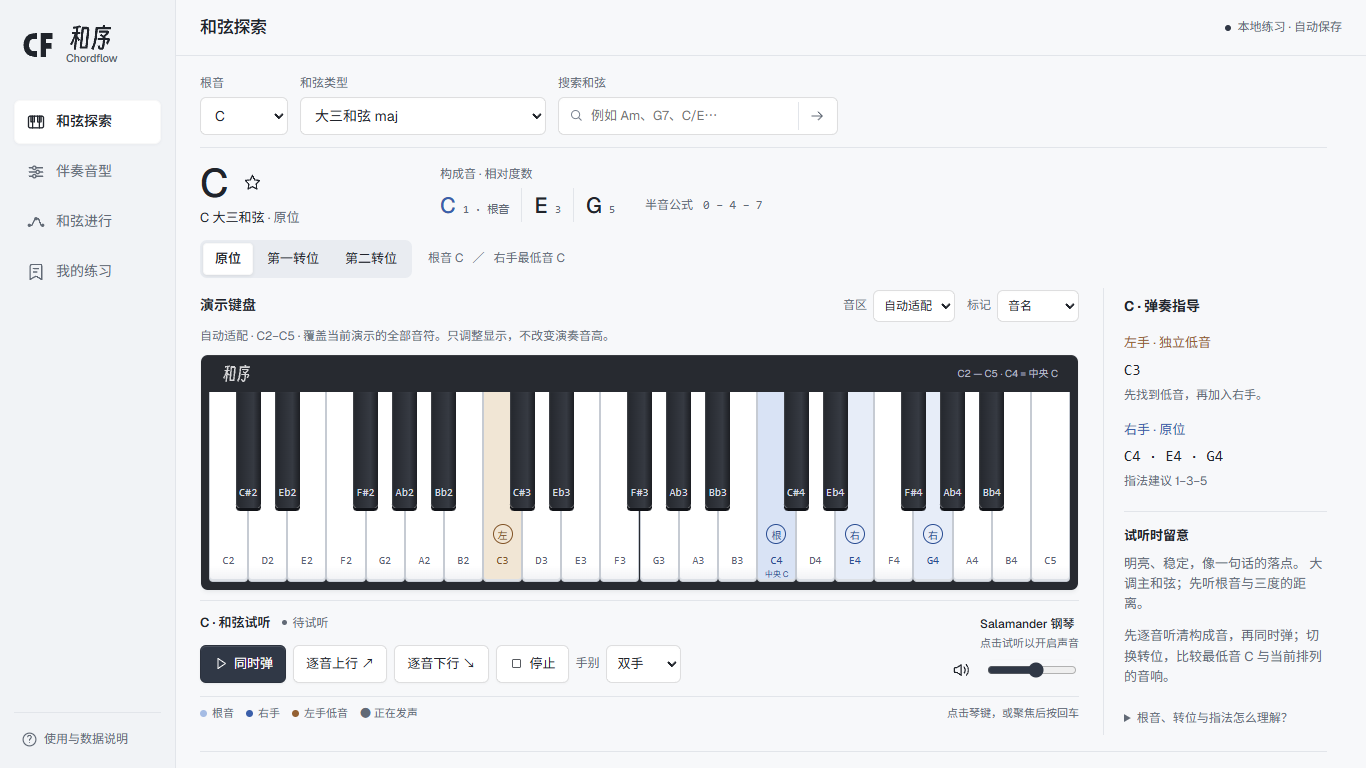
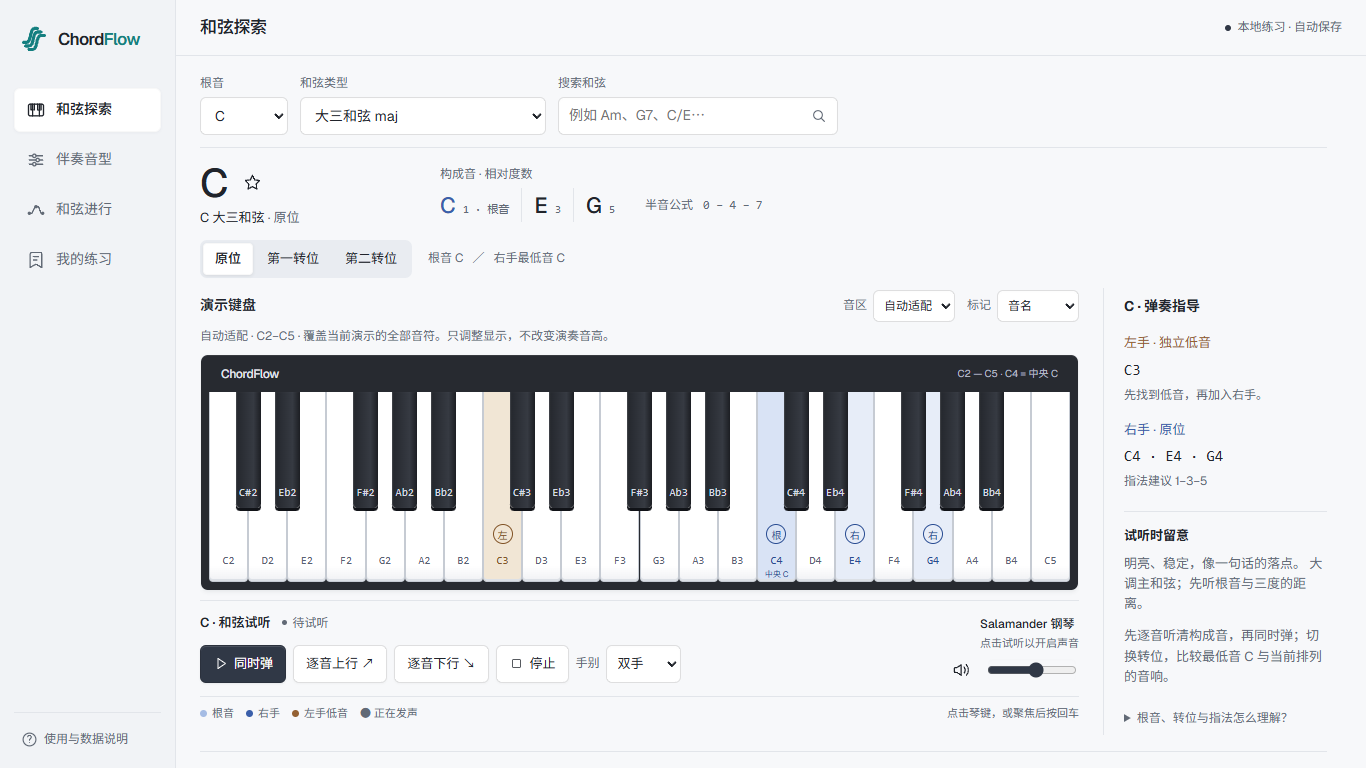
design: introduce teal ChordFlow identity and consistent search controls

diff --git a/src/styles.css b/src/styles.css
@@ -35,11 +35,9 @@ button.primary { background: var(--accent); color: white; border-color: #20242b5
 .app-shell { display: flex; height: 100dvh; overflow: hidden; }
 .sidebar { width: 176px; flex: 0 0 176px; height: 100dvh; padding: 25px 14px 18px; display: flex; flex-direction: column; border-right: 1px solid var(--line); background: #f1f3f6; }
 .brand { display: flex; align-items: center; gap: 10px; margin: 0 6px 35px; text-decoration: none; color: var(--ink); }
-.brand-mark { width: 36px; height: 36px; flex-shrink: 0; }
-.brand-name { display: flex; flex-direction: column; align-items: start; gap: 1px; }
-.brand-wordmark { display: block; width: 49px; height: 25px; object-fit: contain; }
-
-.brand small { display: block; font: 500 11px/1.3 var(--display); letter-spacing: -.2px; color: #545d6b; }
+.brand-mark { width: 28px; height: 28px; flex-shrink: 0; }
+.brand-name { font: 600 17px/1.2 var(--display); letter-spacing: -.65px; white-space: nowrap; }
+.brand-name>span { color: var(--brand); }
 nav { display: flex; flex-direction: column; gap: 6px; }
 nav button { justify-content: start; gap: 10px; padding: 11px 12px; border: 0; background: transparent; min-height: 44px; box-shadow: none; color: var(--muted); }
 nav button.active { background: white; color: var(--ink); font-weight: 550; box-shadow: 0 1px 3px #20242b0a, inset 0 0 0 1px #20242b08; }
@@ -61,11 +59,10 @@ main { width: 100%; max-width: 1700px; margin: 0 auto; padding: 18px 24px; overf
 .quality-field { width: 246px; }
 .chord-search { width: 280px; display: flex; flex-direction: column; gap: 4px; }
 .chord-search>div { display: flex; align-items: center; min-height: 38px; border: 1px solid var(--control-line); border-radius: 6px; background: white; box-shadow: inset 0 1px 2px #20242b04; }
-.chord-search>div:focus-within { border-color: var(--focus); box-shadow: 0 0 0 3px #416ccb14; }
-.chord-search>div>svg { flex-shrink: 0; margin-left: 10px; color: #7a8390; }
-.chord-search input { flex: 1; width: 0; min-height: 36px; border: 0; border-radius: 4px 0 0 4px; font-size: 13px; background: transparent; box-shadow: none; padding-left: 7px; }
+.chord-search>div:focus-within { outline: 2px solid var(--focus); outline-offset: 3px; }
+.chord-search input { flex: 1; width: 0; min-height: 36px; border: 0; border-radius: 5px 0 0 5px; background: transparent; box-shadow: none; padding: 6px 10px; }
 .chord-search input:focus-visible { outline: none; }
-.chord-search button { flex: 0 0 36px; min-height: 28px; margin-right: 3px; padding: 4px 6px; border: 0; border-left: 1px solid var(--line); border-radius: 0 3px 3px 0; background: transparent; color: var(--muted); box-shadow: none; }
+.chord-search button { flex: 0 0 36px; min-height: 36px; padding: 6px; border: 0; border-radius: 0 5px 5px 0; background: transparent; color: var(--muted); box-shadow: none; }
 .chord-search button:focus-visible { outline-offset: -2px; }
 .chord-overview { display: flex; align-items: center; gap: 30px; padding: 12px 0; }
 .chord-identity { min-width: 210px; }
@@ -256,7 +253,7 @@ input[type=number],.playback-state,.event-beat { font-variant-numeric: tabular-n
 @media (max-width: 780px) {
   .app-shell { height: auto; min-height: 100dvh; display: block; overflow: visible; }
   .sidebar { width: 100%; height: auto; padding: max(12px,env(safe-area-inset-top)) max(12px,env(safe-area-inset-right)) 0 max(12px,env(safe-area-inset-left)); border-right: 0; border-bottom: 1px solid var(--line); }
-  .brand { margin: 0 0 8px; gap: 8px; }.brand-mark { width: 30px; height: 30px; }.brand-wordmark { width: 42px; height: 22px; }.brand small { font-size: 10px; }
+  .brand { margin: 0 0 8px; gap: 8px; }.brand-mark { width: 28px; height: 28px; }.brand-name { font-size: 17px; }
   nav { flex-direction: row; gap: 2px; }nav button { flex: 1; padding: 8px 4px; gap: 6px; min-height: 44px; font-size: 13px; border-radius: 4px 4px 0 0; }nav svg { width: 17px; }
   .help-link { display: none; }.main-shell { height: auto; }.topbar { height: 48px; padding: 0 14px; }h1 { font-size: 17px; }.local-badge { font-size: 11px; }
   main { padding: 14px 14px max(20px,env(safe-area-inset-bottom)); overflow: visible; scrollbar-gutter: auto; }

diff --git a/src/App.tsx b/src/App.tsx
@@ -149,7 +149,7 @@ export default function App() {
   const patternsPanel = <Patterns instrument={practiceInstrument} current={current} onChoose={choose} pattern={s.pattern} onPattern={pattern => settings({pattern,...(PATTERNS.find(p=>p.id===pattern)!.beats!==4?{fill:'none' as const}:{})})} timeline={timeline} playback={playback} onStep={step} register={s.register} onRegister={register => settings({register})} progression={inProgression} hands={s.hands}/>
   return <div className="app-shell" onPointerDownCapture={e=>{if(e.currentTarget.dataset.input!=='pointer')e.currentTarget.dataset.input='pointer'}} onKeyDownCapture={e=>{if(e.currentTarget.dataset.input!=='keyboard')e.currentTarget.dataset.input='keyboard'}}>
     <a className="skip-link" href="#workspace">跳到练习区</a>
-    <aside className="sidebar"><a className="brand" href="#" aria-label="和序 · Chordflow" onClick={() => navigate('explore')}><Brand/></a><nav aria-label="主导航">{PAGES.map(p => <button key={p.id} className={page===p.id?'active':''} aria-current={page===p.id?'page':undefined} onClick={() => navigate(p.id)}><Icon name={p.icon}/>{p.name}</button>)}</nav><button className="help-link" onClick={() => {const help=document.getElementById('help') as HTMLDetailsElement;help.open=true;help.scrollIntoView({behavior:'smooth'})}}><Icon name="help" size={17}/>使用与数据说明</button></aside>
+    <aside className="sidebar"><a className="brand" href="#" aria-label="ChordFlow" onClick={() => navigate('explore')}><Brand/></a><nav aria-label="主导航">{PAGES.map(p => <button key={p.id} className={page===p.id?'active':''} aria-current={page===p.id?'page':undefined} onClick={() => navigate(p.id)}><Icon name={p.icon}/>{p.name}</button>)}</nav><button className="help-link" onClick={() => {const help=document.getElementById('help') as HTMLDetailsElement;help.open=true;help.scrollIntoView({behavior:'smooth'})}}><Icon name="help" size={17}/>使用与数据说明</button></aside>
     <div className="main-shell"><header className="topbar"><h1>{pageInfo.name}</h1><span className="local-badge"><i/>本地练习 · 自动保存</span></header>
     <main id="workspace" tabIndex={-1}>
       {warning && <p className="error" role="alert">{warning}</p>}
@@ -158,7 +158,7 @@ export default function App() {
         {page==='explore' ? <Explorer current={current} right={right} bass={bass} inversion={s.inversion} onChoose={choose} favorite={data.favorites.includes(current.symbol)} onFavorite={favorite}>{keyboard}</Explorer> : inProgression ? <Progressions config={config} onConfig={next => settings(next)} chords={chords} voices={voices} index={chordIndex} onInspect={index => {if(timeline)void step(index*s.barsPerChord*spec.beats*PPQ)}} onSave={saveExercise} canSave={!!timeline && data.exercises.length<100}>{patternsPanel}</Progressions> : patternsPanel}
       </section>}
       <details id="help" className="help-panel">
-        <summary>关于和序 · Chordflow 与本地数据</summary>
+        <summary>关于ChordFlow 与本地数据</summary>
         <p>键盘音区只调整显示，不改变演奏音高；演奏音区在音型设置中调整。C4 = MIDI 60，A4 = 440 Hz。默认使用 Salamander 采样钢琴，首次点击加载本地音源；失败时明确降级为合成音，可重试。静音时检查主音量与设备音量。琴键可通过 Tab 聚焦、Enter 或 Space 弹奏。</p>
         <p>教学内容为原创教学示例。指法因手型和连接而异。没有 MIDI 或麦克风识别，不测量正确率。数据仅在当前浏览器保存，不自动跨设备同步；可在“我的练习”导入与导出 JSON 备份。</p>
         <p>切换页面、和弦、音型、速度、手别与演奏音区会停止并回到开头；暂停保留当前位置。一次只有一个主动播放会话，点击琴键的短音可叠加。后台自动暂停，需要回到页面手动继续。持续循环中，每完成一整组进行或一小节单和弦音型计一轮。</p>

diff --git a/src/features/Explorer.tsx b/src/features/Explorer.tsx
@@ -22,7 +22,7 @@ export function Explorer({ current, right, bass, inversion, onChoose, favorite, 
     <div className="explorer-tools">
       <div className="field root-field"><label htmlFor="root-note">根音</label><select id="root-note" value={current.root.name} onChange={e => onChoose(chord(e.target.value, current.type))}>{ROOTS.map(r => <option key={r}>{r}</option>)}</select></div>
       <div className="field quality-field"><label htmlFor="chord-type">和弦类型</label><select id="chord-type" value={current.type} onChange={e => onChoose(chord(current.root.name, e.target.value as Chord['type']))}>{CHORD_TYPES.map(s => <option value={s.id} key={s.id}>{s.name} {s.suffix || 'maj'}</option>)}</select></div>
-      <form className="chord-search" onSubmit={e => { e.preventDefault(); search() }}><label htmlFor="chord-search">搜索和弦</label><div><Icon name="search" size={15}/><input id="chord-search" name="chord" autoComplete="off" autoCapitalize="none" enterKeyHint="search" spellCheck={false} aria-invalid={!!error} aria-describedby={error?'chord-error':undefined} placeholder="例如 Am、G7、C/E…" value={query} maxLength={32} onChange={e => setQuery(e.target.value)} /><button type="submit" aria-label="查找和弦"><Icon name="arrow" size={16} /></button></div></form>
+      <form className="chord-search" onSubmit={e => { e.preventDefault(); search() }}><label htmlFor="chord-search">搜索和弦</label><div><input id="chord-search" name="chord" autoComplete="off" autoCapitalize="none" enterKeyHint="search" spellCheck={false} aria-invalid={!!error} aria-describedby={error?'chord-error':undefined} placeholder="例如 Am、G7、C/E…" value={query} maxLength={32} onChange={e => setQuery(e.target.value)} /><button type="submit" aria-label="查找和弦"><Icon name="search" size={16} /></button></div></form>
     </div>
     {error && <p id="chord-error" role="alert" className="error">{error}</p>}
     <div className="chord-overview">

diff --git a/src/storage/store.ts b/src/storage/store.ts
@@ -52,7 +52,7 @@ export function validateConfig(value: unknown): PracticeConfig {
 }
 export function validateData(value: unknown): UserData {
   const v = object(value,'备份')
-  if (v.version !== 1 || v.format !== 'chordflow-backup') throw new Error('不支持此文件格式或版本；需要和序 v1 JSON 备份。')
+  if (v.version !== 1 || v.format !== 'chordflow-backup') throw new Error('不支持此文件格式或版本；需要ChordFlow v1 JSON 备份。')
   const settings = object(v.settings,'设置')
   const c = parseChord(text(settings.chord,'和弦',32))
   const config = validateConfig(settings)
@@ -79,9 +79,9 @@ export function validateData(value: unknown): UserData {
   }
 }
 export function parseBackup(raw: string): UserData {
-  if (new TextEncoder().encode(raw).length > MAX_BACKUP_BYTES) throw new Error('文件超过 1 MB，请选择较小的和序 JSON 备份。')
+  if (new TextEncoder().encode(raw).length > MAX_BACKUP_BYTES) throw new Error('文件超过 1 MB，请选择较小的ChordFlow JSON 备份。')
   let parsed: unknown
-  try { parsed = JSON.parse(raw) } catch { throw new Error('无法读取 JSON，请选择完整的和序备份文件。') }
+  try { parsed = JSON.parse(raw) } catch { throw new Error('无法读取 JSON，请选择完整的ChordFlow备份文件。') }
   return validateData(parsed)
 }
 export function loadData(storage: Pick<Storage,'getItem'>): { data: UserData; warning: string } {

diff --git a/src/components/Piano.module.css b/src/components/Piano.module.css
@@ -1,7 +1,7 @@
 .scroll { overflow-x: auto; max-width: 100%; padding: 3px 1px 10px; scrollbar-width: thin; overscroll-behavior-x: contain; }
 .piano { min-width: max(704px,calc(var(--white-key-count)*30px)); background: #272a30; padding: 0 8px 8px; border-radius: 7px; box-shadow: 0 2px 4px #20242b12, inset 0 1px 0 #ffffff14; }
 .rail { height: 37px; color: #b6bbc5; display: flex; justify-content: space-between; align-items: center; padding: 0 12px; font-size: 10px; }
-.rail img { width: 31px; height: 17px; object-fit: contain; filter: brightness(0) invert(1); opacity: .8; }
+.brand { font: 500 12px var(--display); color: #e1e5ec; letter-spacing: -.3px; }
 .keys { height: 190px; position: relative; }
 .key { position: absolute; border: 0; cursor: pointer; display: flex; flex-direction: column; align-items: center; justify-content: end; padding: 0 0 14px; gap: 5px; border-radius: 0 0 4px 4px; font: 11px var(--mono); transition: none; }
 .white { height: 190px; background: linear-gradient(#fff 92%,#f0f1f4); color: #596273; border: 1px solid #c6cbd3; border-top: 0; box-shadow: inset 0 -2px 0 #dce0e6; z-index: 1; }

diff --git a/index.html b/index.html
@@ -4,11 +4,11 @@
     <meta charset="UTF-8" />
     <meta name="viewport" content="width=device-width, initial-scale=1.0, viewport-fit=cover, interactive-widget=resizes-content" />
     <meta name="theme-color" content="#f7f8fa" />
-    <meta name="description" content="和序 · Chordflow，从和弦开始，弹出自己的伴奏。学习钢琴和弦、转位与分解音型，慢速循环练习常见和弦进行。" />
-    <link rel="icon" type="image/svg+xml" href="/favicon.svg?v=2" />
+    <meta name="description" content="ChordFlow，从和弦开始，弹出自己的伴奏。学习钢琴和弦、转位与分解音型，慢速循环练习常见和弦进行。" />
+    <link rel="icon" type="image/svg+xml" href="/favicon.svg?v=3" />
     <link rel="preload" href="/fonts/geist-ui.woff2" as="font" type="font/woff2" crossorigin />
     <link rel="preload" href="/fonts/noto-sans-sc-ui.woff2" as="font" type="font/woff2" crossorigin />
-    <title>和序 · Chordflow</title>
+    <title>ChordFlow</title>
   </head>
   <body>
     <div id="root"></div>

diff --git a/src/components/Piano.tsx b/src/components/Piano.tsx
@@ -36,7 +36,7 @@ export function Piano({ chord, right, bass, active, range, labels, onNote,events
   },[focusMidis,start,end])
   return <div ref={scrollRef} className={styles.scroll} data-testid="piano" data-range-start={start} data-range-end={end} aria-label="交互钢琴，琴键可用 Tab 与回车弹奏">
     <div className={styles.piano} style={{'--white-key-count':white.length} as CSSProperties}>
-      <div className={styles.rail}><img src="/wordmark.svg" width="31" height="17" alt=""/><span>{midiName(start)} — {midiName(end)} · C4 = 中央 C</span></div>
+      <div className={styles.rail}><span className={styles.brand} translate="no">ChordFlow</span><span>{midiName(start)} — {midiName(end)} · C4 = 中央 C</span></div>
       <div className={styles.keys}>
         {keys.map(midi => {
           const isBlack = black(midi)

diff --git a/src/components/Brand.tsx b/src/components/Brand.tsx
@@ -1,3 +1,3 @@
 export function Brand() {
-  return <><img className="brand-mark" src="/brand-mark.svg" width="36" height="36" alt=""/><span className="brand-name"><img className="brand-wordmark" src="/wordmark.svg" width="49" height="25" alt=""/><small translate="no">Chordflow</small></span></>
+  return <><img className="brand-mark" src="/brand-mark.svg" width="28" height="28" alt=""/><span className="brand-name" translate="no">Chord<span>Flow</span></span></>
 }

diff --git a/src/tokens.css b/src/tokens.css
@@ -20,6 +20,7 @@
   --muted: #626a76;
   --accent: #303846;
   --accent-soft: #eceff3;
+  --brand: #157f80;
   --right: #3b5faa;
   --right-soft: #e6edf9;
   --left: #946133;

diff --git a/scripts/build-fonts.py b/scripts/build-fonts.py
@@ -4,19 +4,13 @@ Run from the repository root; downloads stay in .cache/font-sources.
 The application build serves the prebuilt files and does not run Python.
 """
 import hashlib
-import html
-import io
 import json
-import re
 import sys
 import urllib.request
-import zipfile
 from pathlib import Path
 
 sys.path.insert(0, str(Path('.cache/font-tools').resolve()))
 from fontTools import subset
-from fontTools.pens.boundsPen import BoundsPen
-from fontTools.pens.svgPathPen import SVGPathPen
 from fontTools.ttLib import TTFont
 
 cache=Path('.cache/font-sources')
@@ -65,34 +59,5 @@ for name,(url,license_url) in sources.items():
     copy_license(download(license_url,name+'-OFL.txt'),target/(name+'-OFL.txt'))
     manifest.append({'file':output.name,'source':url,'sourceSHA256':hashlib.sha256(path.read_bytes()).hexdigest(),'sha256':hashlib.sha256(output.read_bytes()).hexdigest(),'bytes':output.stat().st_size,'family':family})
 
-# Only the two logo glyphs are outlined. No display-font runtime request is needed.
-assets='https://github.com/atelier-anchor/smiley-sans/releases/expanded_assets/v2.0.1'
-with urllib.request.urlopen(assets,timeout=45) as response:
-    listing=response.read().decode()
-href=next(html.unescape(x) for x in re.findall(r'href="([^"]+)"',listing) if '/download/' in x and x.endswith('.zip'))
-url='https://github.com'+href if href.startswith('/') else href
-archive=zipfile.ZipFile(download(url,'smiley-sans-v2.0.1.zip'))
-font_file=next(n for n in archive.namelist() if n.endswith('.ttf'))
-font=TTFont(io.BytesIO(archive.read(font_file)))
-glyphs=font.getGlyphSet()
-paths=[]
-left=0
-bounds=[]
-for character in '和序':
-    glyph=glyphs[font.getBestCmap()[ord(character)]]
-    pen=SVGPathPen(glyphs)
-    glyph.draw(pen)
-    box=BoundsPen(glyphs)
-    glyph.draw(box)
-    x0,y0,x1,y1=box.bounds
-    bounds.append((x0+left,y0,x1+left,y1))
-    paths.append(f'<path transform="translate({left} 0)" d="{pen.getCommands()}"/>')
-    left+=glyph.width+25
-x0=min(b[0] for b in bounds);y0=min(b[1] for b in bounds)
-x1=max(b[2] for b in bounds);y1=max(b[3] for b in bounds)
-svg=f'<svg xmlns="http://www.w3.org/2000/svg" viewBox="0 0 {x1-x0} {y1-y0}" fill="#20242b"><g transform="translate({-x0} {y1}) scale(1 -1)">{"".join(paths)}</g></svg>\n'
-Path('public/wordmark.svg').write_bytes(svg.encode('utf-8'))
-copy_license(download('https://raw.githubusercontent.com/atelier-anchor/smiley-sans/v2.0.1/LICENSE','smiley-sans-OFL.txt'),target/'smiley-sans-OFL.txt')
-manifest.append({'file':'../wordmark.svg','source':url,'font':font_file,'sha256':hashlib.sha256(svg.encode()).hexdigest()})
 (target/'manifest.json').write_text(json.dumps(manifest,ensure_ascii=False,indent=2)+'\n',encoding='utf-8')
 print(json.dumps(manifest,ensure_ascii=False,indent=2))

diff --git a/docs/design.md b/docs/design.md
@@ -1,4 +1,4 @@
-# 和序 · Chordflow 视觉与交互规范
+# ChordFlow 视觉与交互规范
 
 ## 方向与优先级
 
@@ -13,6 +13,8 @@
 桌面只由工作区承担纵向滚动，不应再出现外层文档滚动条。内容面板建立相对定位上下文，使供读屏使用的绝对定位标签、隐藏文件输入留在工作区内，避免撑高外层文档。滚到长进行底部时，使用说明之后仅保留正常内边距。
 
 搜索与根音、类型选择器相邻排列。输入框和提交按钮共用一个边框与整组焦点提示；输入区不再单独绘制截断的粗轮廓，按钮保留键盘焦点提示。
+
+搜索框与选择器统一为 38px 高、14px 字号、6px 圆角和相同浅边框。焦点同样采用 2px 轮廓、3px 间隔，搜索不另加透明光晕；放大镜提交按钮放在右侧，不使用内部竖分隔线。触屏字号仍遵循 16px 的要求。
 
 和弦探索顺序固定为：
 
@@ -42,7 +44,7 @@
 - 主控件为石墨灰 `#303846`，右手钢蓝 `#3B5FAA`，左手琥珀 `#946133`；分隔线 `#E2E5EA`。不用整片彩色背景表示每一种选中状态。
 - 正文使用本地 Geist 与 Noto Sans SC 子集，常规 14px；操作标签和次要说明通常 12–13px。部署不请求 Google Fonts 或其他外部字体 CDN。
 - 和弦符号使用同一无衬线字体，桌面 40px、手机 32px；音名和节奏数据仍使用等宽字体。构成音是静态音程条，不使用像按钮一样的边框卡片。
-- 品牌改为自制 CF 图形、得意黑“和序”轮廓字标和 Geist 英文字名。中文轮廓字标在导航与钢琴上复用，favicon 使用相同图形。得意黑仅用于品牌，不用于小字号正文。
+- 品牌统一为英文 **ChordFlow**，不使用中文品牌名或 CF 拼字标记。蓝绿色图标与 Geist 英文字名横排，Flow 使用品牌色 `#157F80`；导航与 favicon 使用同一图形，琴身显示相同的英文字名。旧中文 SVG 字标及其生成步骤已移除。
 - 常规控件圆角 6px，钢琴外壳 7px。使用低对比度边界与很浅的控件阴影表达可按压性；不在主操作区增加大卡片。音型选择增加勾选记号，进行当前项使用底部细线。
 - 根音、左右手、加花和正在发声均含文字或符号，不仅靠颜色区分。白键普通音名提高对比度。
 

diff --git a/docs/brand-refresh.md b/docs/brand-refresh.md
@@ -1,0 +1,17 @@
+# ChordFlow 品牌与搜索控件修正
+
+本轮按用户反馈，将公开品牌名统一为 **ChordFlow**。旧中文名称、中文字标和 CF 拼字图标不再用于网页；界面的乐理及操作说明继续使用中文。localStorage key、备份格式和已有数据保持兼容。
+
+图标由专门负责图标设计的子代理设计并用 Edge 对比三个方案，选取三条平行上行的圆角声部路径，以蓝绿色 `#157F80` 表达三音叠合与声部流动。没有字母、普通音符或方块背景；检查了 16/24/28/32px 的轮廓和负空间。favicon 使用同一图形，在深色标签栏改用较亮的 `#65C4C0`。
+
+英文 ChordFlow 使用本地 Geist，Flow 部分呼应图标颜色。名称同步到导航、浏览器标题、琴身、帮助及导入错误文案。旧中文字标 SVG、得意黑许可和对应生成步骤移除；现有两个正文 WOFF2 及其许可保持。
+
+| Before | After | Why |
+| --- | --- | --- |
+| CF 字母拼接、中文与英文分两行 | 蓝绿色三声部图标和 ChordFlow 单行字名 | 品牌名称与音乐含义更统一，小尺寸保持清楚 |
+| 搜索含左侧图标、右侧分隔和独立光晕 | 右侧放大镜提交，无分隔线，与选择器同样的焦点轮廓 | 减少一组控件中的视觉差异 |
+| 搜索字号 13px，选择器 14px | 桌面统一 14px、38px 高、6px 圆角；焦点 2px、间隔 3px | 浏览器中逐项测得样式一致 |
+
+保留 Enter 和按钮提交、搜索错误提示与所有乐理、音频及保存行为。检查桌面、手机布局及完整功能回归，并执行类型检查、ESLint、核心测试、生产构建和本地生产资源检查。截图见 docs/screenshots/brand.png、controls-focus.png 及探索页三种尺寸截图。
+
+实际验证：`npm run check` 通过（类型检查、ESLint、61 项核心测试、生产构建），`npm run test:e2e` 的 34 项浏览器测试通过。Edge 复查 1366×768、1920×1080 与 390px 手机布局、按键反馈和减少动态效果偏好；生产预览再次验证品牌名称、搜索 Enter/按钮提交和两类控件的焦点样式。`npm run test:smoke` 通过本地字体与图标、30 个 MP3 采样的 MIME/SHA-256、许可与 SPA 回退检查。
